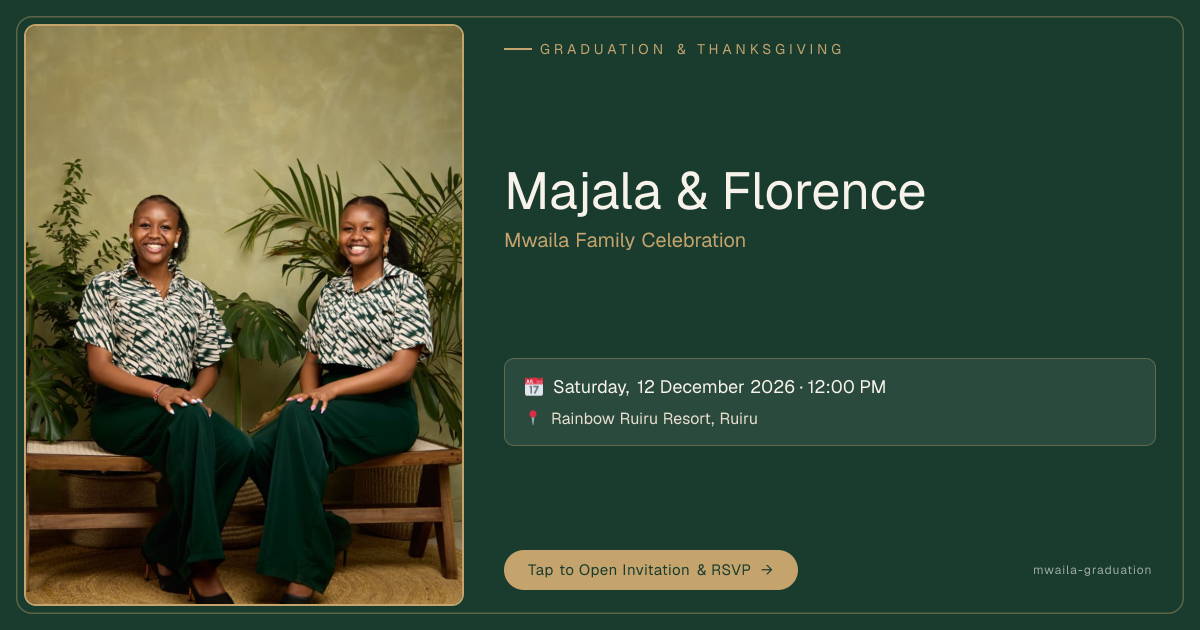
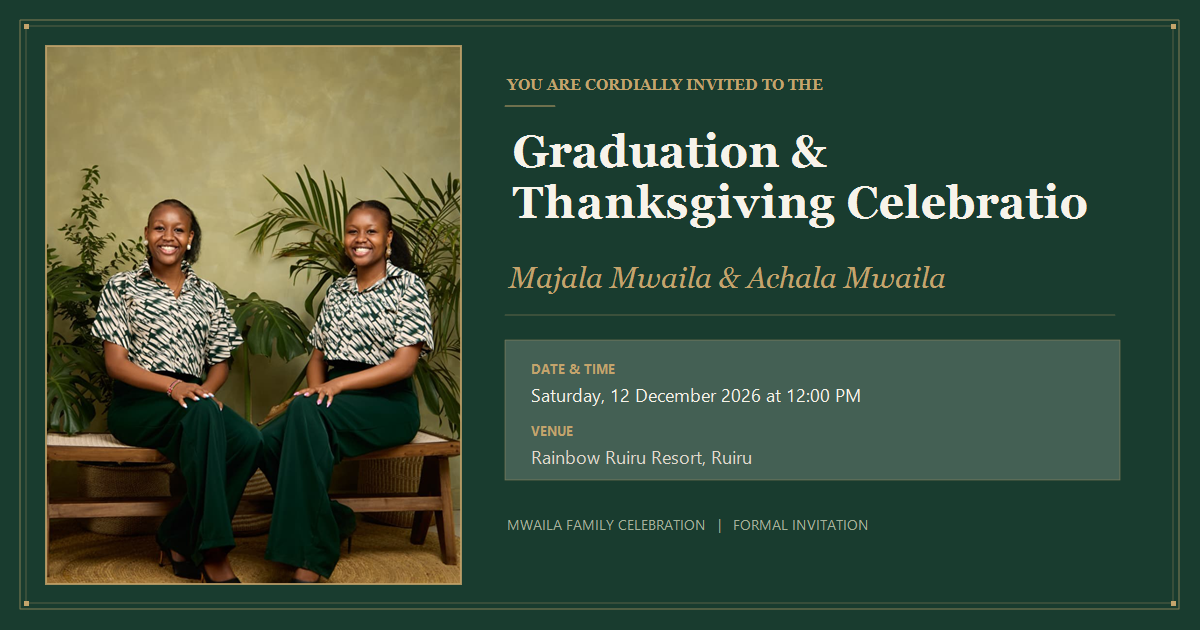
Refine social link preview: remove emojis and AI artifacts, update Florence to Achala across metadata and invitation card

diff --git a/src/app/layout.tsx b/src/app/layout.tsx
@@ -40,19 +40,19 @@ function getMetadataBase(): URL {
 export const metadata: Metadata = {
   metadataBase: getMetadataBase(),
   title: {
-    default: "Majala & Florence — Graduation & Thanksgiving Celebration",
-    template: "%s | Majala & Florence",
+    default: "Majala & Achala — Graduation & Thanksgiving Celebration",
+    template: "%s | Majala & Achala",
   },
   description:
-    "You are cordially invited to the Graduation & Thanksgiving Celebration of Majala Mwaila and Florence Achala Mwaila on Saturday, 12 December 2026 at Rainbow Ruiru Resort.",
+    "You are cordially invited to the Graduation & Thanksgiving Celebration of Majala Mwaila and Achala Mwaila on Saturday, 12 December 2026 at Rainbow Ruiru Resort.",
   applicationName: "Mwaila Graduation Celebration",
-  authors: [{ name: "Majala Mwaila" }, { name: "Florence Achala Mwaila" }],
+  authors: [{ name: "Majala Mwaila" }, { name: "Achala Mwaila" }],
   creator: "Mwaila Family",
   keywords: [
     "Graduation",
     "Thanksgiving",
     "Majala Mwaila",
-    "Florence Achala Mwaila",
+    "Achala Mwaila",
     "Rainbow Ruiru Resort",
     "Celebration",
     "RSVP",
@@ -61,25 +61,25 @@ export const metadata: Metadata = {
     type: "website",
     locale: "en_KE",
     url: "/",
-    siteName: "Majala & Florence Graduation & Thanksgiving",
-    title: "Majala & Florence — Graduation & Thanksgiving Celebration",
+    siteName: "Majala & Achala Graduation & Thanksgiving",
+    title: "Majala & Achala — Graduation & Thanksgiving Celebration",
     description:
-      "You are cordially invited to celebrate the Graduation & Thanksgiving of Majala Mwaila and Florence Achala Mwaila on Saturday, 12 December 2026 at Rainbow Ruiru Resort. Tap to view details and RSVP.",
+      "You are cordially invited to celebrate the Graduation & Thanksgiving of Majala Mwaila and Achala Mwaila on Saturday, 12 December 2026 at Rainbow Ruiru Resort. View invitation details and RSVP online.",
     images: [
       {
         url: "/og-image.jpg",
         width: 1200,
         height: 630,
-        alt: "Majala & Florence — Graduation & Thanksgiving Celebration",
+        alt: "Majala & Achala — Graduation & Thanksgiving Celebration",
         type: "image/jpeg",
       },
     ],
   },
   twitter: {
     card: "summary_large_image",
-    title: "Majala & Florence — Graduation & Thanksgiving Celebration",
+    title: "Majala & Achala — Graduation & Thanksgiving Celebration",
     description:
-      "You are cordially invited to celebrate the Graduation & Thanksgiving of Majala Mwaila and Florence Achala Mwaila on Saturday, 12 December 2026 at Rainbow Ruiru Resort. Tap to view details and RSVP.",
+      "You are cordially invited to celebrate the Graduation & Thanksgiving of Majala Mwaila and Achala Mwaila on Saturday, 12 December 2026 at Rainbow Ruiru Resort. View invitation details and RSVP online.",
     images: ["/og-image.jpg"],
   },
   robots: {
